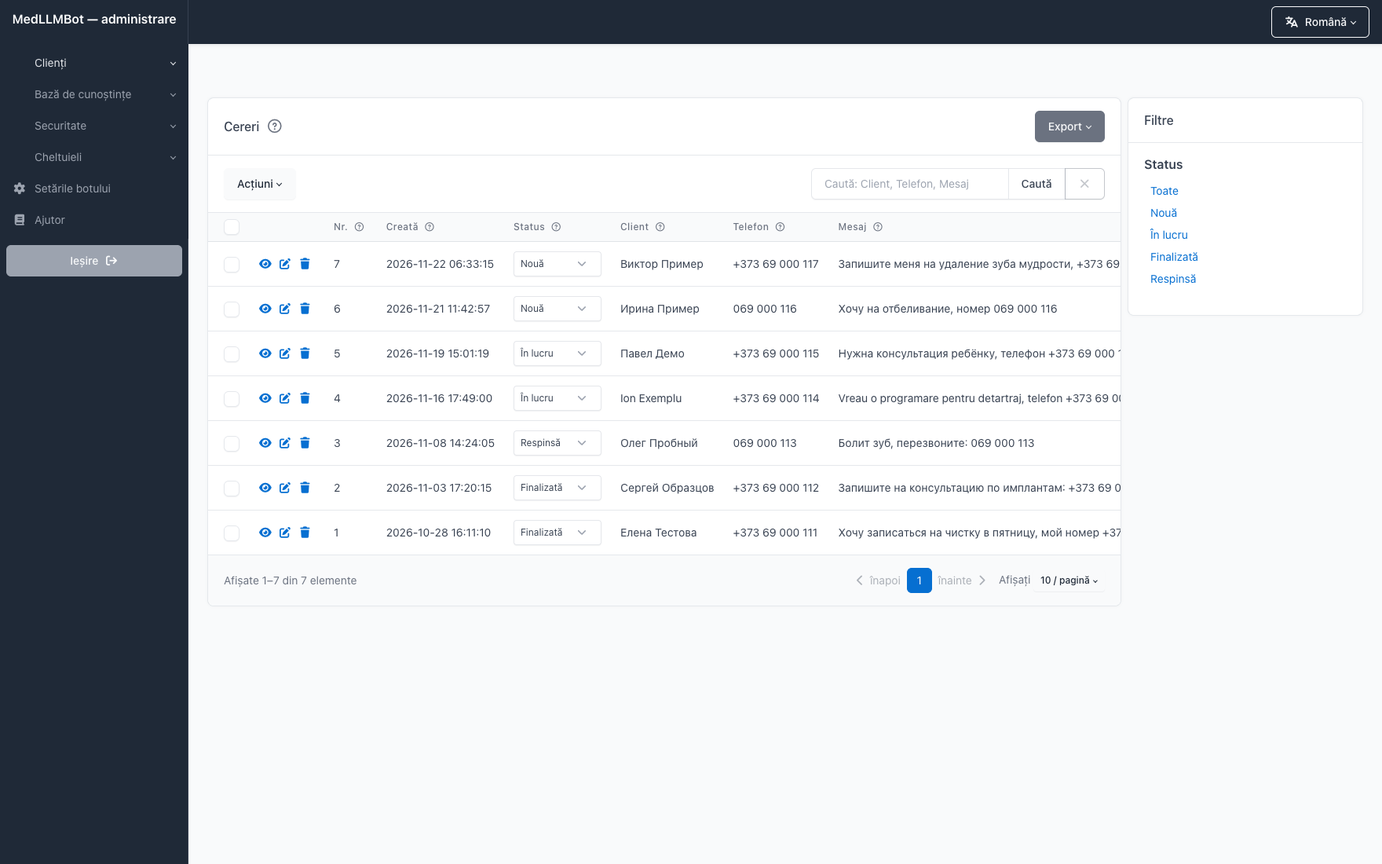
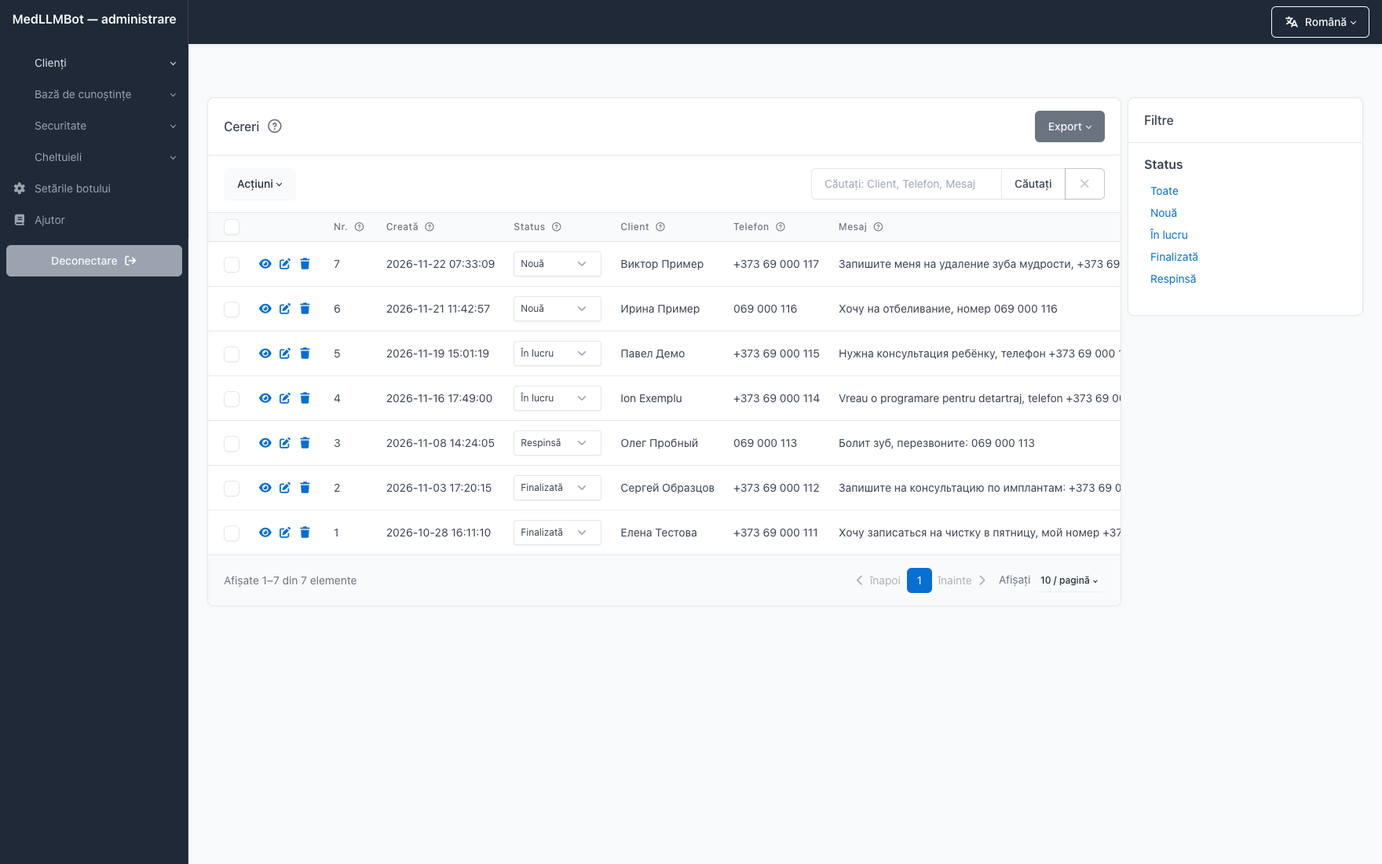
Romanian proofreading: UI catalogs, help and README
- SQLAdmin buttons use the formal plural imperative, like the rest of the UI
  (Salvați, Adăugați, Căutați); Logout is Deconectare, so Ieșire means only Output.
- Out for delivery is În curs de livrare; Rate-limit window is
  Fereastra limitei de mesaje; a few grammar fixes and calques replaced.
- Help and README_ro: word order, terminology (subiect for analytics topics),
  grammar; help labels match the catalog.
- Romanian screenshots retaken with the new labels.
- test_i18n expects the new Romanian Logout label.

diff --git a/medllmbot/admin/templates/help/topics/ro/bot-config.html b/medllmbot/admin/templates/help/topics/ro/bot-config.html
@@ -1,13 +1,13 @@
 {% from "help/_macros.html" import note, section_link with context %}
 <h3 id="{{ topic.anchor('kak') }}">Cum modificați setările</h3>
-<p>Setările sunt un singur rând. Apăsați pictograma creion, modificați câmpurile și apăsați <b>Salvează</b>. Botul aplică
+<p>Setările sunt un singur rând. Apăsați pictograma creion, modificați câmpurile și apăsați <b>Salvați</b>. Botul aplică
 modificările de la următorul mesaj al clientului, nu trebuie repornit.</p>
 
 <h3 id="{{ topic.anchor('profile') }}">Profilul afacerii</h3>
-<p>Profilul stabilește cum se prezintă botul și ce reguli ale domeniului respectă:</p>
+<p>Profilul stabilește cum se prezintă botul și ce reguli de domeniu respectă:</p>
 <ul>
-  <li><b>Clinică stomatologică</b> — nu pune diagnostice, în caz de durere acută sfătuiește pacientul să vină la consultație, face programări.</li>
-  <li><b>Magazin de electronice</b> — ajută la alegerea tehnicii după buget și nevoi, nu promite disponibilitatea și termenele
+  <li><b>Clinică stomatologică</b> — nu pune diagnostice, în caz de durere acută îl sfătuiește pe pacient să vină la consultație, face programări.</li>
+  <li><b>Magazin de electronice</b> — ajută la alegerea produselor după buget și nevoi, nu promite disponibilitatea și termenele
     de livrare care nu sunt în baza de cunoștințe, plasează comanda prin manager.</li>
 </ul>
 <p>Regulile de securitate sunt aceleași pentru ambele profiluri. Profilul se schimbă împreună cu baza de cunoștințe printr-o comandă
@@ -44,22 +44,22 @@ Restabiliți imediat valoarea anterioară.
     este un număr de telefon, cererea se creează oricum, iar clientul află că numărul a fost salvat.</li>
   <li><b>Adâncimea istoricului</b> — câte mesaje recente din dialog vede modelul. 0 — botul nu ține minte conversația;
     8 — ajung pentru o programare obișnuită la consultație. Mai multe — fiecare răspuns costă mai mult.</li>
-  <li><b>Mesaje pe fereastră</b> și <b>Fereastra rate-limit</b>: implicit cel mult 10 mesaje în 60 de secunde de la un
-    client. Mesajele în plus botul le omite fără să răspundă și le marchează în jurnal cu rezultatul „Limită de mesaje”.</li>
+  <li><b>Mesaje pe fereastră</b> și <b>Fereastra limitei de mesaje, s</b>: implicit cel mult 10 mesaje în 60 de secunde de la un
+    client. Botul omite mesajele în plus fără să răspundă și le marchează în jurnal cu rezultatul „Limită de mesaje”.</li>
 </ul>
-<p>Răspunsurile gata făcute fără Claude — „Voi verifica cu administratorul”, „Mesajul este prea lung”, scuzele pentru o eroare și altele —
-botul le scrie în limba mesajului clientului: în rusă sau în română. Dacă limba nu se poate deduce din text (o comandă pentru bot, numărul
-unei comenzi, o fotografie fără descriere), botul ia limba din setările Telegram ale clientului. Saluturi sunt două — despre ele mai jos.</p>
+<p>Botul scrie răspunsurile gata făcute fără Claude — „Voi verifica cu administratorul”, „Mesajul este prea lung”, scuzele pentru o eroare și altele —
+în limba mesajului clientului: în rusă sau în română. Dacă limba nu se poate deduce din text (o comandă pentru bot, numărul
+unei comenzi, o fotografie fără descriere), botul ia limba din setările Telegram ale clientului. Există două saluturi — despre ele mai jos.</p>
 
 <h3 id="{{ topic.anchor('budget') }}">Limita de cheltuieli pe zi</h3>
 <p>Botul este deschis oricărui utilizator Telegram. Limita de mesaje se aplică fiecărui client separat,
-iar <b>Limita de cheltuieli pe zi</b> — tuturor împreună: când cheltuielile pentru Claude din ziua curentă (UTC) ating
+iar <b>Limita de cheltuieli pe zi, $</b> — tuturor împreună: când cheltuielile pentru Claude din ziua curentă (UTC) ating
 limita, până la miezul nopții UTC botul răspunde „Administratorul vă va răspunde în timpul programului de lucru”, fără să apeleze modelul.
 Cererile cu telefon se salvează ca de obicei, primiți o notificare în Telegram (cel mult o dată la 6 ore),
 iar în {{ section_link('audit-event') }} apare rezultatul „Limită de cheltuieli”.</p>
 <ul>
   <li><b>0</b> — fără limită.</li>
-  <li>Pentru demo ajung 1–2 dolari: un răspuns claude-haiku-5-5 costă o fracțiune de cent.</li>
+  <li>Pentru demo ajung 1–2 dolari: un răspuns al modelului claude-haiku-5-5 costă o fracțiune de cent.</li>
   <li>Se iau în calcul doar solicitările către modelele cu preț în {{ section_link('model-price') }}: un model fără preț nu consumă limita.</li>
 </ul>
 

diff --git a/medllmbot/admin/templates/help/topics/ro/service.html b/medllmbot/admin/templates/help/topics/ro/service.html
@@ -24,20 +24,20 @@ cu prețuri și răspunde pe baza lor.</p>
 <h3 id="{{ topic.anchor('proverka-cen') }}">Protecție împotriva prețurilor inventate</h3>
 <p>Dacă modelul numește o sumă în lei care nu există în baza de cunoștințe, clientul nu o va vedea: va primi
 „Voi verifica prețul cu administratorul și revin cu un răspuns”, iar în {{ section_link('audit-event') }} va apărea
-o înregistrare cu rezultatul „Preț înlocuit”. Dacă astfel de înregistrări sunt multe, verificați dacă toate prețurile
+o înregistrare cu rezultatul „Preț înlocuit”. Dacă există multe astfel de înregistrări, verificați dacă toate prețurile
 sunt în lista de prețuri.</p>
 
 <h3 id="{{ topic.anchor('kak') }}">Cum lucrați cu serviciile</h3>
 <ul>
-  <li><b>Adăugare:</b> butonul <b>+ Adaugă: Poziție</b> deasupra tabelului → completați denumirea și prețul →
-    <b>Salvează</b>.</li>
-  <li><b>Schimbarea prețului:</b> pictograma creion din rândul serviciului → <b>Preț, lei</b> → <b>Salvează</b>.</li>
+  <li><b>Adăugare:</b> butonul <b>+ Adăugați: Poziție</b> deasupra tabelului → completați denumirea și prețul →
+    <b>Salvați</b>.</li>
+  <li><b>Schimbarea prețului:</b> pictograma creion din rândul serviciului → <b>Preț, lei</b> → <b>Salvați</b>.</li>
   <li><b>Eliminare temporară</b> (serviciul nu se prestează acum): debifați <b>Activă</b>. Botul nu îl va mai propune,
     iar înregistrarea rămâne — mai târziu este suficient să o activați din nou.</li>
   <li><b>Ștergere definitivă:</b> pictograma coș din rând. Ștergerea este ireversibilă.</li>
   <li><b>Schimbarea ordinii:</b> trageți rândul de pictograma din coloana <b>Ordine</b> — noua ordine
-    se salvează imediat, iar botul o vede de la următoarea întrebare. Tragerea funcționează când lista nu are căutare
-    sau filtre. Se poate și manual: numărul <b>Ordine</b> din formular, mai mic — mai sus.</li>
+    se salvează imediat, iar botul o vede de la următoarea întrebare. Tragerea funcționează când în listă nu sunt aplicate căutarea
+    sau filtrele. Se poate și manual: numărul <b>Ordine</b> din formular — cu cât este mai mic, cu atât rândul este mai sus.</li>
 </ul>
 
 <h3 id="{{ topic.anchor('sovety') }}">Cum completați</h3>
@@ -52,7 +52,7 @@ sunt în lista de prețuri.</p>
 Botul consideră valabile și prețurile din {{ section_link('faq-item') }} și {{ section_link('info-section') }}.
 Dacă acolo este menționat prețul vechi, botul îl poate numi.
 {% endcall %}
-{% call note("info", "Modificarea bazei de cunoștințe resetează puțin cache-ul") %}
+{% call note("info", "Modificarea bazei de cunoștințe resetează cache-ul") %}
 Fiecare modificare schimbă textul solicitării către Claude, de aceea primul răspuns după ea este puțin mai scump:
-cache-ul se scrie din nou. Diferența este de fracțiuni de cent, modificați liniștit.
+cache-ul se scrie din nou. Diferența este de fracțiuni de cent, modificați fără grijă.
 {% endcall %}

diff --git a/medllmbot/admin/templates/help/topics/ro/order.html b/medllmbot/admin/templates/help/topics/ro/order.html
@@ -9,21 +9,21 @@ estimată. Dacă nu, botul răspunde că comanda nu a fost găsită și nu spune
   <li>Protecție împotriva încercărilor repetate: după 5 verificări nereușite într-o oră dintr-un chat sau 10 pentru aceeași comandă din toate chaturile,
     botul nu mai verifică și îi propune clientului să-și lase numărul de telefon, ca să-l sune managerul. Contoarele sunt păstrate în memoria
     botului și se resetează la repornirea sau actualizarea lui.</li>
-  <li>Un număr cu greșeli de tipar, care nu seamănă cu un număr de comandă, botul nu îl trimite în sistem și nu îl socotește încercare.</li>
+  <li>Botul nu trimite în sistem un număr cu greșeli de tipar, care nu seamănă cu un număr de comandă, și nu îl socotește încercare.</li>
   <li>Ce a verificat botul și cu ce rezultat vedeți în {{ section_link('audit-event') }}, în câmpul
-    <b>Ce a căutat botul</b>: «order_status DE-10023 → Передан в доставку» („predată pentru livrare”) sau «→ телефон не совпал» („telefonul nu a coincis”).</li>
+    <b>Ce a căutat botul</b>: «order_status DE-10023 → Передан в доставку» („în curs de livrare”) sau «→ телефон не совпал» („telefonul nu a coincis”).</li>
   <li>Secțiunea funcționează în profilul „Magazin de electronice”. Clinica stomatologică nu are comenzi, iar botul nu le caută.</li>
 </ul>
 
 <h3 id="{{ topic.anchor('rabota') }}">Cum gestionați comenzile</h3>
 <ul>
-  <li><b>Schimbați statusul:</b> pictograma creion din rândul comenzii → <b>Status</b> → <b>Salvează</b>. Botul va comunica
+  <li><b>Schimbați statusul:</b> pictograma creion din rândul comenzii → <b>Status</b> → <b>Salvați</b>. Botul va comunica
     noul status începând cu următoarea întrebare.</li>
-  <li><b>Adăugați o comandă:</b> butonul <b>+ Adaugă: Comandă</b>. Numărul trebuie să fie unic.</li>
+  <li><b>Adăugați o comandă:</b> butonul <b>+ Adăugați: Comandă</b>. Numărul trebuie să fie unic.</li>
   <li><b>Data livrării</b> — data estimată. Dacă s-a schimbat, corectați-o: clientul va afla exact ce este scris aici.
     Dacă data lipsește, botul va spune că o va preciza managerul.</li>
-  <li><b>Produse</b> — fără prețuri: botul numește suma comenzii, iar prețul unei poziții separate care nu este în catalog
-    verificarea prețurilor îl va înlocui cu „Voi verifica prețul”.</li>
+  <li><b>Produse</b> — fără prețuri: botul numește suma comenzii, iar verificarea prețurilor va înlocui prețul unei poziții individuale care nu este
+    în catalog cu „Voi verifica prețul”.</li>
 </ul>
 
 {% call note("info", "Într-un proiect pentru un magazin, comenzile vor veni din sistemul acestuia") %}

diff --git a/medllmbot/admin/templates/help/topics/ro/chat-message.html b/medllmbot/admin/templates/help/topics/ro/chat-message.html
@@ -2,13 +2,13 @@
 <h3 id="{{ topic.anchor('chto') }}">Ce este această secțiune</h3>
 <p>Aceasta este memoria botului. Fiecare schimb obișnuit „întrebarea clientului — răspunsul botului” se salvează aici. La următoarea
 întrebare botul îi transmite lui Claude ultimele mesaje ale acestui client, iar modelul își amintește despre ce a fost vorba.
-Câte mesaje se transmit stabilește <b>Adâncimea istoricului</b> din {{ section_link('bot-config') }}.</p>
+<b>Adâncimea istoricului</b> din {{ section_link('bot-config') }} stabilește câte mesaje se transmit.</p>
 
 <h3 id="{{ topic.anchor('ne-popadaet') }}">Ce nu ajunge aici</h3>
 <ul>
   <li>Mesajele suspecte și răspunsurile în care modelul a încercat să-și dezvăluie regulile — ca atacul
     să nu se acumuleze în memoria botului.</li>
-  <li>Mesajele prea lungi, mesajele clienților blocați și cele omise din cauza frecvenței.</li>
+  <li>Mesajele prea lungi, mesajele clienților blocați și cele omise pentru că clientul a scris prea des.</li>
   <li>Întrebările la care Claude nu a răspuns din cauza unei erori.</li>
 </ul>
 <p>Toate acestea se află în {{ section_link('audit-event') }} — acolo este înregistrat fiecare mesaj primit.</p>
@@ -16,7 +16,7 @@ Câte mesaje se transmit stabilește <b>Adâncimea istoricului</b> din {{ sectio
 <h3 id="{{ topic.anchor('dialog') }}">Cum citiți dialogul unui client</h3>
 <ol>
   <li>Aflați <b>Chat ID</b>-ul clientului: îl găsiți în {{ section_link('client') }}, în cerere și în jurnal.</li>
-  <li>În blocul <b>Filtre</b>, alegeți pentru <b>Chat ID</b> condiția <b>Egal cu</b>, introduceți numărul și apăsați <b>Aplică filtrul</b>.</li>
+  <li>În blocul <b>Filtre</b>, alegeți pentru <b>Chat ID</b> condiția <b>Egal cu</b>, introduceți numărul și apăsați <b>Aplicați filtrul</b>.</li>
   <li>Mesajele sunt afișate de la cele mai noi. <b>user</b> — clientul, <b>assistant</b> — botul.</li>
 </ol>
 
@@ -24,8 +24,8 @@ Câte mesaje se transmit stabilește <b>Adâncimea istoricului</b> din {{ sectio
 <table class="table table-sm">
   <tbody>
     <tr><td>Conversații</td><td>Memoria botului pentru Claude. Doar mesajele care au trecut verificările și doar ceea ce
-      a primit clientul. Se păstrează fără termen.</td></tr>
-    <tr><td>Jurnal</td><td>Toate mesajele primite: rezultatul procesării, răspunsul inițial al modelului, tokenii și costul.
+      a primit clientul. Se păstrează pe termen nelimitat.</td></tr>
+    <tr><td>Jurnal</td><td>Toate mesajele primite: rezultatul procesării, răspunsul inițial al modelului, tokenurile și costul.
       Se păstrează atâtea zile câte sunt indicate în setări.</td></tr>
   </tbody>
 </table>

diff --git a/medllmbot/admin/templates/help/topics/ro/analytics.html b/medllmbot/admin/templates/help/topics/ro/analytics.html
@@ -21,25 +21,25 @@ nu sunt trimise nicăieri altundeva.</p>
     Ponderea acestor dialoguri arată cât de des conversația cu botul duce la un apel.</li>
 </ul>
 
-<h3 id="{{ topic.anchor('temy') }}">Cum se determină temele</h3>
-<p>Tema se determină după cuvintele-cheie din întrebare, în rusă și română: «цена», «сколько стоит», „preț” înseamnă „Prețuri”.
-O întrebare poate intra în mai multe teme: „Cât costă detartrajul?” intră și în „Prețuri”, și în „Igienă și albire”.</p>
+<h3 id="{{ topic.anchor('temy') }}">Cum se determină subiectele</h3>
+<p>Subiectul se determină după cuvintele-cheie din întrebare, în rusă și română: «цена», «сколько стоит», „preț” înseamnă „Prețuri”.
+O întrebare poate intra în mai multe subiecte: „Cât costă detartrajul?” intră și în „Prețuri”, și în „Igienă și albire”.</p>
 <ul>
   <li><b>Au lăsat numărul de telefon</b> — mesaje fără cuvinte cunoscute, dar cu un număr de telefon: de obicei așa răspunde clientul
     când botul îi cere datele de contact.</li>
   <li><b>Altele</b> — tot restul, inclusiv replicile scurte de tipul „Mulțumesc”. Exemplele de sub denumire vă sugerează
-    ce temă lipsește.</li>
-  <li>Sub fiecare temă apar până la trei întrebări recente. Mesajele cu număr de telefon nu apar în exemple.</li>
+    ce subiect lipsește.</li>
+  <li>Sub fiecare subiect apar până la trei întrebări recente. Mesajele cu număr de telefon nu apar în exemple.</li>
 </ul>
-<p>Temele depind de profilul afacerii:</p>
+<p>Subiectele depind de profilul afacerii:</p>
 <ul>
   {% for kind, topics in analytics_topics.items() %}
   <li><b>{{ _(kind.value) }}:</b> {% for item in topics %}{{ _(item.name) }}{% if not loop.last %}, {% endif %}{% endfor %}.</li>
   {% endfor %}
 </ul>
-{% call note("info", "Teme proprii") %}
-Dicționarele de teme se definesc în cod (<code>medllmbot/analytics.py</code>), nu în panoul de administrare: le adaptează
-pentru afacerea dvs. dezvoltatorul. Cuvintele noi se aplică imediat și întrebărilor anterioare — datele nu trebuie recalculate manual.
+{% call note("info", "Subiecte proprii") %}
+Dicționarele de subiecte se definesc în cod (<code>medllmbot/analytics.py</code>), nu în panoul de administrare: le adaptează
+dezvoltatorul pentru afacerea dvs. Cuvintele noi se aplică imediat și întrebărilor anterioare — datele nu trebuie recalculate manual.
 {% endcall %}
 
 <h3 id="{{ topic.anchor('bez-otveta') }}">Întrebări fără răspuns</h3>

diff --git a/medllmbot/admin/templates/help/topics/ro/faq-item.html b/medllmbot/admin/templates/help/topics/ro/faq-item.html
@@ -6,22 +6,22 @@ cu propriile cuvinte și în limba clientului — rusă sau română. Modificare
 <h3 id="{{ topic.anchor('sovety') }}">Cum scrieți răspunsuri bune</h3>
 <ul>
   <li>O întrebare — o înregistrare. Formulați întrebarea așa cum o pun clienții: „Doare tratamentul dentar?”.</li>
-  <li>Răspunsul — scurt și la obiect: ce, cât, când. Un text lung botul îl va scurta oricum.</li>
+  <li>Răspunsul — scurt și la obiect: ce, cât, când. Botul va scurta oricum un text lung.</li>
   <li>Nu promiteți ceea ce clinica nu face: botul îi va repeta promisiunea clientului.</li>
-  <li>Prețurile este mai comod să le țineți în {{ section_link('service') }}. Dacă totuși prețul apare în răspuns, botul îl consideră valabil.</li>
+  <li>Este mai comod să țineți prețurile în {{ section_link('service') }}. Dacă totuși prețul apare în răspuns, botul îl consideră valabil.</li>
 </ul>
 
 <h3 id="{{ topic.anchor('kak') }}">Cum lucrați cu întrebările</h3>
 <ul>
-  <li><b>Adăugare:</b> butonul <b>+ Adaugă: Întrebare</b> de deasupra tabelului → întrebarea și răspunsul → <b>Salvează</b>.</li>
+  <li><b>Adăugare:</b> butonul <b>+ Adăugați: Întrebare</b> de deasupra tabelului → întrebarea și răspunsul → <b>Salvați</b>.</li>
   <li><b>Modificare:</b> pictograma creion din rând.</li>
   <li><b>Dezactivare temporară:</b> debifați <b>Activă</b>.</li>
   <li><b>Schimbarea ordinii:</b> trageți rândul de pictograma din coloana <b>Ordine</b> — noua ordine
-    se salvează imediat, iar botul o vede de la următoarea întrebare. Tragerea funcționează când lista nu are căutare
-    sau filtre. Se poate și manual: numărul <b>Ordine</b> din formular — cu cât este mai mic, cu atât rândul este mai sus.</li>
+    se salvează imediat, iar botul o vede de la următoarea întrebare. Tragerea funcționează când în listă nu sunt aplicate căutarea
+    sau filtrele. Se poate și manual: numărul <b>Ordine</b> din formular — cu cât este mai mic, cu atât rândul este mai sus.</li>
 </ul>
 
 {% call note("success", "De unde luați întrebări noi") %}
-Dacă botul nu găsește răspunsul în baza de cunoștințe, spune că administratorul vă va răspunde în timpul programului de lucru.
+Dacă botul nu găsește răspunsul în baza de cunoștințe, spune că administratorul va răspunde în timpul programului de lucru.
 Consultați {{ section_link('audit-event') }}: întrebările la care botul răspunde astfel sunt candidate pentru întrebările frecvente.
 {% endcall %}

diff --git a/medllmbot/admin/templates/help/topics/ro/audit-event.html b/medllmbot/admin/templates/help/topics/ro/audit-event.html
@@ -25,12 +25,12 @@ iar în răspunsul modelului — fragmente din regulile sale. Semnele declanșat
 
 <h3 id="{{ topic.anchor('podozritelnoe') }}">Ce se întâmplă cu un mesaj suspect</h3>
 <ul>
-  <li>Clientul primește răspunsul obișnuit al modelului: de spargere botul este protejat de regulile sale și de
+  <li>Clientul primește răspunsul obișnuit al modelului: botul este protejat împotriva spargerii de regulile sale și de
     verificările răspunsului, nu de detector. Excepție face răspunsul cu fragmente din reguli: acesta este înlocuit
     cu o frază neutră.</li>
   <li>Mesajul și răspunsul nu se salvează în {{ section_link('chat-message') }}, așa că atacul nu se acumulează
     în memoria botului.</li>
-  <li>Administratorul primește în Telegram notificarea „Atenție: mesaj suspect…”, cel mult o dată la 15 minute pentru un client, ca atacatorul să nu-l copleșească
+  <li>Administratorul primește în Telegram notificarea „Atenție: mesaj suspect…”, cel mult o dată la 15 minute pentru fiecare client, ca atacatorul să nu-l copleșească
     cu mesaje.</li>
 </ul>
 
@@ -46,7 +46,7 @@ iar în răspunsul modelului — fragmente din regulile sale. Semnele declanșat
 
 <h3 id="{{ topic.anchor('novye') }}">Evenimente noi fără reîncărcarea paginii</h3>
 <p>Cât timp jurnalul este deschis, acesta verifică o dată la 15 secunde dacă există înregistrări noi. Deasupra tabelului
-apare mesajul „Evenimente noi în jurnal: N”; dacă printre ele sunt și suspecte, mesajul devine galben și arată câte sunt.
+apare mesajul „Evenimente noi în jurnal: N”; dacă printre ele sunt și unele suspecte, mesajul devine galben și arată câte sunt.
 Apăsați <b>Afișați</b> pentru a actualiza lista.</p>
 
 {% call note("warning", "Detectorul este un semnal, nu o protecție") %}

diff --git a/medllmbot/admin/templates/help/topics/ro/client.html b/medllmbot/admin/templates/help/topics/ro/client.html
@@ -9,7 +9,7 @@ odată cu el ar dispărea conversațiile și cererile.</p>
   <li>Găsiți clientul: bara de căutare caută după <b>Chat ID</b>, username și nume. Chat ID-ul se copiază ușor
     din {{ section_link('audit-event') }} sau din cerere.</li>
   <li>Apăsați pictograma creion din rândul clientului.</li>
-  <li>Bifați <b>Blocat</b> și apăsați <b>Salvează</b>.</li>
+  <li>Bifați <b>Blocat</b> și apăsați <b>Salvați</b>.</li>
 </ol>
 <p>Mai rapid — direct din {{ section_link('audit-event') }}: pe pagina înregistrării, lângă Chat ID, există butonul
 <b>Blocați clientul</b>. Pentru a debloca, debifați caseta aici sau apăsați <b>Deblocați</b>
@@ -39,7 +39,7 @@ sau comanda /operator. Atunci:</p>
   <li>Botul îi răspunde clientului că a transmis întrebarea, iar dvs. primiți în Telegram o notificare cu ultimele mesaje
     din dialog și butonul <b>Înapoi la bot</b>.</li>
   <li>Cât timp dialogul este la dvs., botul tace în acest chat: mesajele clientului, inclusiv fotografiile și mesajele vocale, vă sunt
-    trimise dvs., iar Claude nu este apelat. Coloana <b>Cu operatorul până la</b> arată până când.</li>
+    trimise, iar Claude nu este apelat. Coloana <b>Cu operatorul până la</b> arată până când.</li>
   <li>Pentru a răspunde, răspundeți în Telegram (glisați sau „Răspunde”) la mesajul botului despre acest client: notificarea,
     mesajul redirecționat sau notificarea despre cererea lui. Textul, fotografia sau fișierul ajunge la client, iar pe mesajul dvs.
     apare 👍. Fiecare răspuns prelungește perioada; un răspuns la o notificare veche activează din nou modul operator.</li>

diff --git a/medllmbot/admin/templates/help/topics/ro/model-price.html b/medllmbot/admin/templates/help/topics/ro/model-price.html
@@ -9,7 +9,7 @@ această secțiune:</p>
   <li>tokenurile citite din cache × prețul <b>Citire din cache</b>.</li>
 </ul>
 <p>Toate prețurile sunt în dolari SUA pentru un milion de tokenuri, ca pe pagina de prețuri Anthropic. Partea zecimală
-poate fi separată cu punct sau cu virgulă: 0.15 și 0,15 înseamnă același lucru. Prețul este între 0 și 1000: mai mare
+poate fi separată cu punct sau cu virgulă: 0.15 și 0,15 înseamnă același lucru. Prețul este între 0 și 1000: prețuri mai mari
 nu există, iar o astfel de valoare este aproape sigur o greșeală de tastare. Suma se salvează în înregistrarea din
 {{ section_link('audit-event') }} și în totalurile din {{ section_link('usage-daily') }}.</p>
 
@@ -21,7 +21,7 @@ solicitării. Majoritatea modelelor au un singur rând, cu pragul 0.</p>
 <h3 id="{{ topic.anchor('kogda') }}">Când trebuie modificate prețurile</h3>
 <ol>
   <li><b>Înainte de schimbarea modelului</b> în {{ section_link('bot-config') }}: verificați dacă noul model are un rând
-    cu pragul 0 și, dacă nu are, adăugați-l cu butonul <b>+ Adaugă: Prețul modelului</b>.</li>
+    cu pragul 0 și, dacă nu are, adăugați-l cu butonul <b>+ Adăugați: Prețul modelului</b>.</li>
   <li><b>Anthropic și-a schimbat prețurile:</b> actualizați rândul modelului cu pictograma creion.</li>
 </ol>
 <p>Prețurile actuale sunt pe <a href="https://platform.claude.com/docs/en/about-claude/pricing" target="_blank"

diff --git a/medllmbot/admin/templates/help/topics/ro/info-section.html b/medllmbot/admin/templates/help/topics/ro/info-section.html
@@ -7,7 +7,7 @@ programului de lucru.</p>
 
 <h3 id="{{ topic.anchor('chto-pisat') }}">Ce să scrieți aici</h3>
 <ul>
-  <li>Adresa, repere, cum se ajunge, parcarea.</li>
+  <li>Adresa, reperele, cum se ajunge, parcarea.</li>
   <li>Telefoanele și programul de lucru — fără ele botul nu poate spune clientului când va fi sunat înapoi.</li>
   <li>Pentru magazin — livrarea, ridicarea personală, garanția și returul.</li>
   <li>Metodele de plată, plata în rate, garanțiile.</li>
@@ -31,8 +31,8 @@ prioritate față de textul bazei de cunoștințe — ele nu pot fi modificate a
 <h3 id="{{ topic.anchor('poryadok') }}">Ordinea secțiunilor</h3>
 <ul>
   <li><b>Schimbarea ordinii:</b> trageți rândul de pictograma din coloana <b>Ordine</b> — noua ordine
-    se salvează imediat, iar botul o vede de la următoarea întrebare. Tragerea funcționează când lista nu are căutare
-    sau filtre. Se poate și manual: numărul <b>Ordine</b> din formular, mai mic — mai sus.</li>
+    se salvează imediat, iar botul o vede de la următoarea întrebare. Tragerea funcționează când în listă nu sunt aplicate căutarea
+    sau filtrele. Se poate și manual: numărul <b>Ordine</b> din formular — cu cât este mai mic, cu atât rândul este mai sus.</li>
 </ul>
 
 {% call note("success", "Ascundeți temporar o secțiune") %}

diff --git a/medllmbot/admin/templates/help/topics/ro/costs.html b/medllmbot/admin/templates/help/topics/ro/costs.html
@@ -10,7 +10,7 @@
 
 <h3 id="{{ topic.anchor('ocenka') }}">Este o estimare, nu o factură</h3>
 <p>Raportul se calculează după tokenurile din răspunsurile lui Claude și prețurile din {{ section_link('model-price') }}.
-Taxele, reducerile contractuale și solicitările către API făcute ocolind botul nu sunt luate în calcul. Suma exactă
+Taxele, reducerile contractuale și solicitările către API făcute în afara botului nu sunt luate în calcul. Suma exactă
 o găsiți în Anthropic Console, în secțiunea Usage / Cost.</p>
 {% call note("warning", "Avertismentul despre solicitările fără preț") %}
 Dacă sub tabelul lunii există un avertisment despre solicitări fără preț, totalul este subestimat: adăugați modelul
@@ -24,5 +24,5 @@ Dacă sub tabelul lunii există un avertisment despre solicitări fără preț, 
   <li><b>Adâncimea istoricului</b> din {{ section_link('bot-config') }}: fiecare mesaj din istoric adaugă tokenuri
     la fiecare întrebare a clientului.</li>
   <li><b>Dimensiunea bazei de cunoștințe.</b> Ea se trimite cu fiecare întrebare. Cache-ul ieftinește repetările, dar
-    secțiunile inutile și serviciile inactive este mai bine să le dezactivați.</li>
+    este mai bine să dezactivați secțiunile inutile și serviciile inactive.</li>
 </ul>
